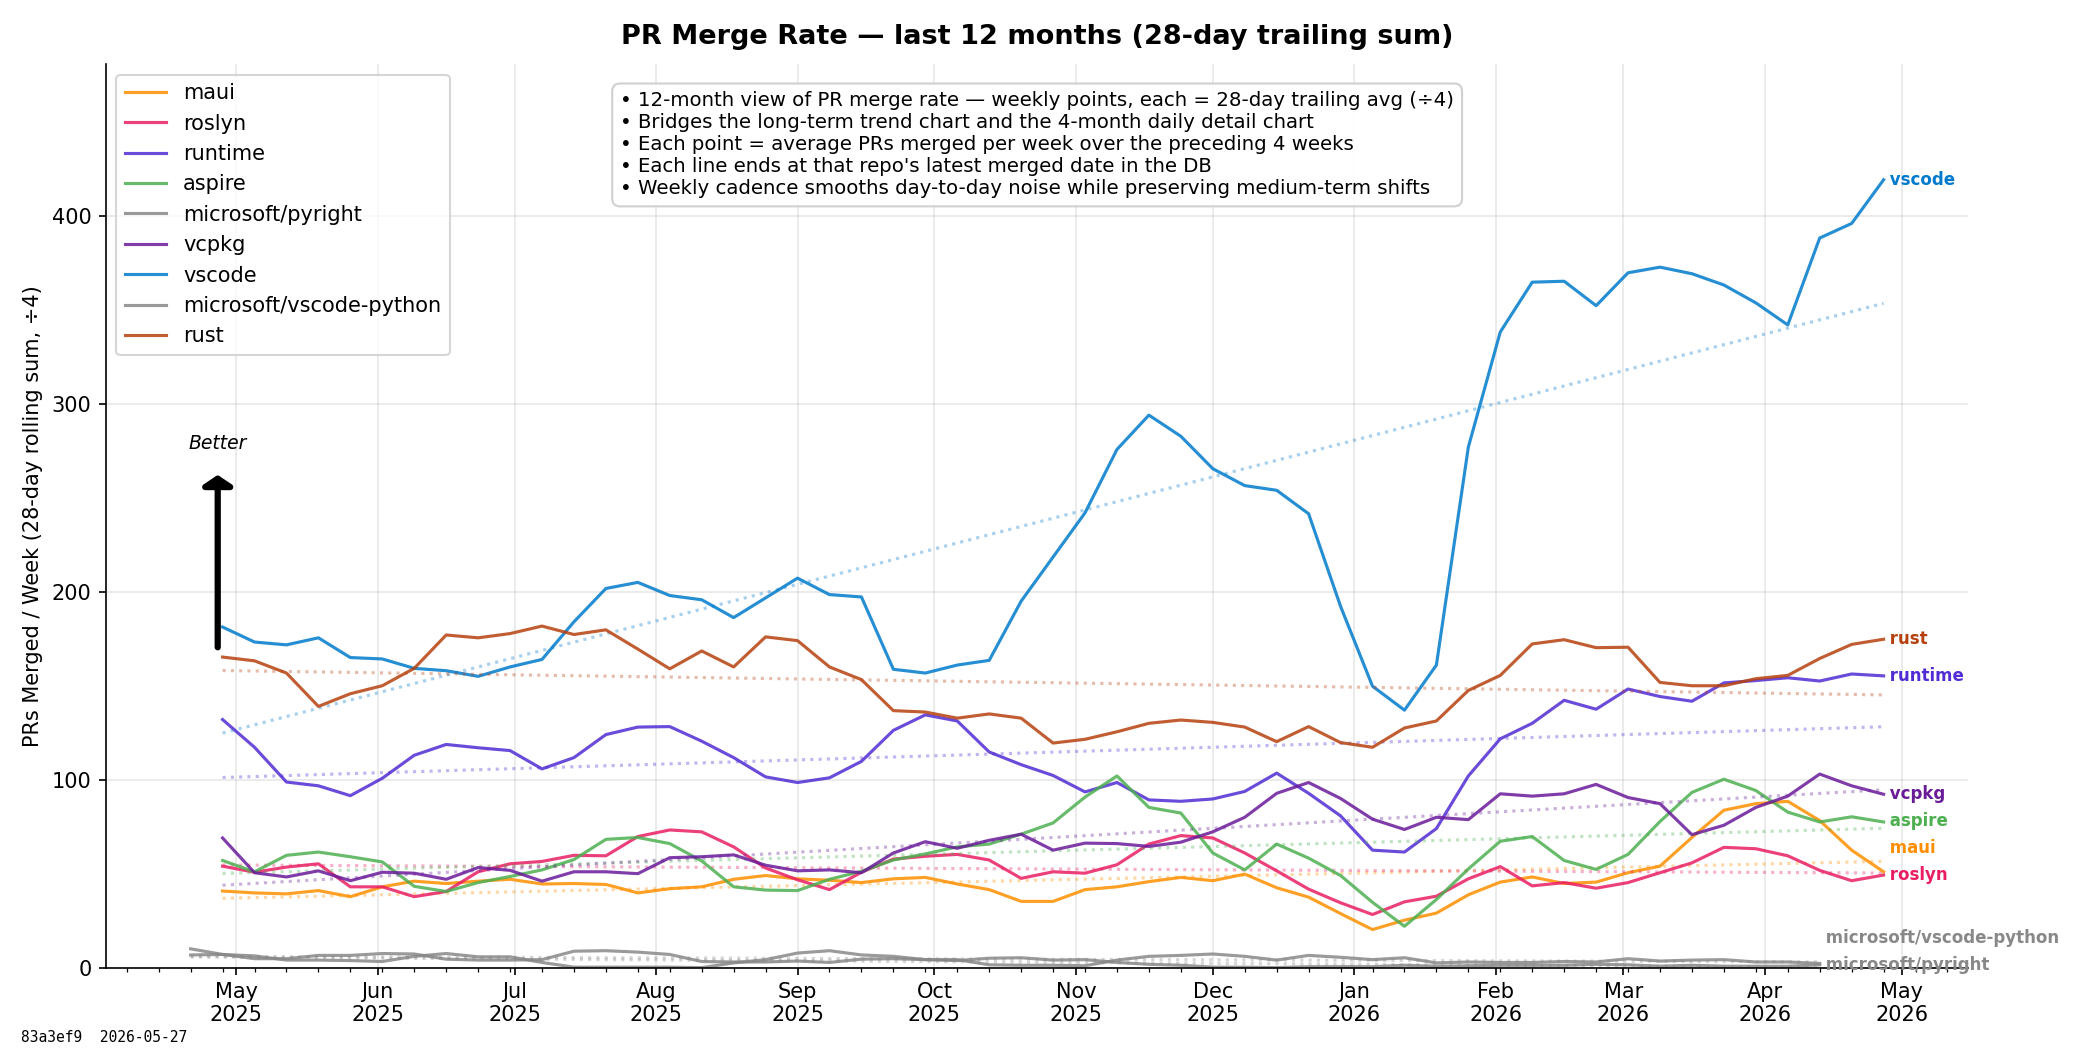
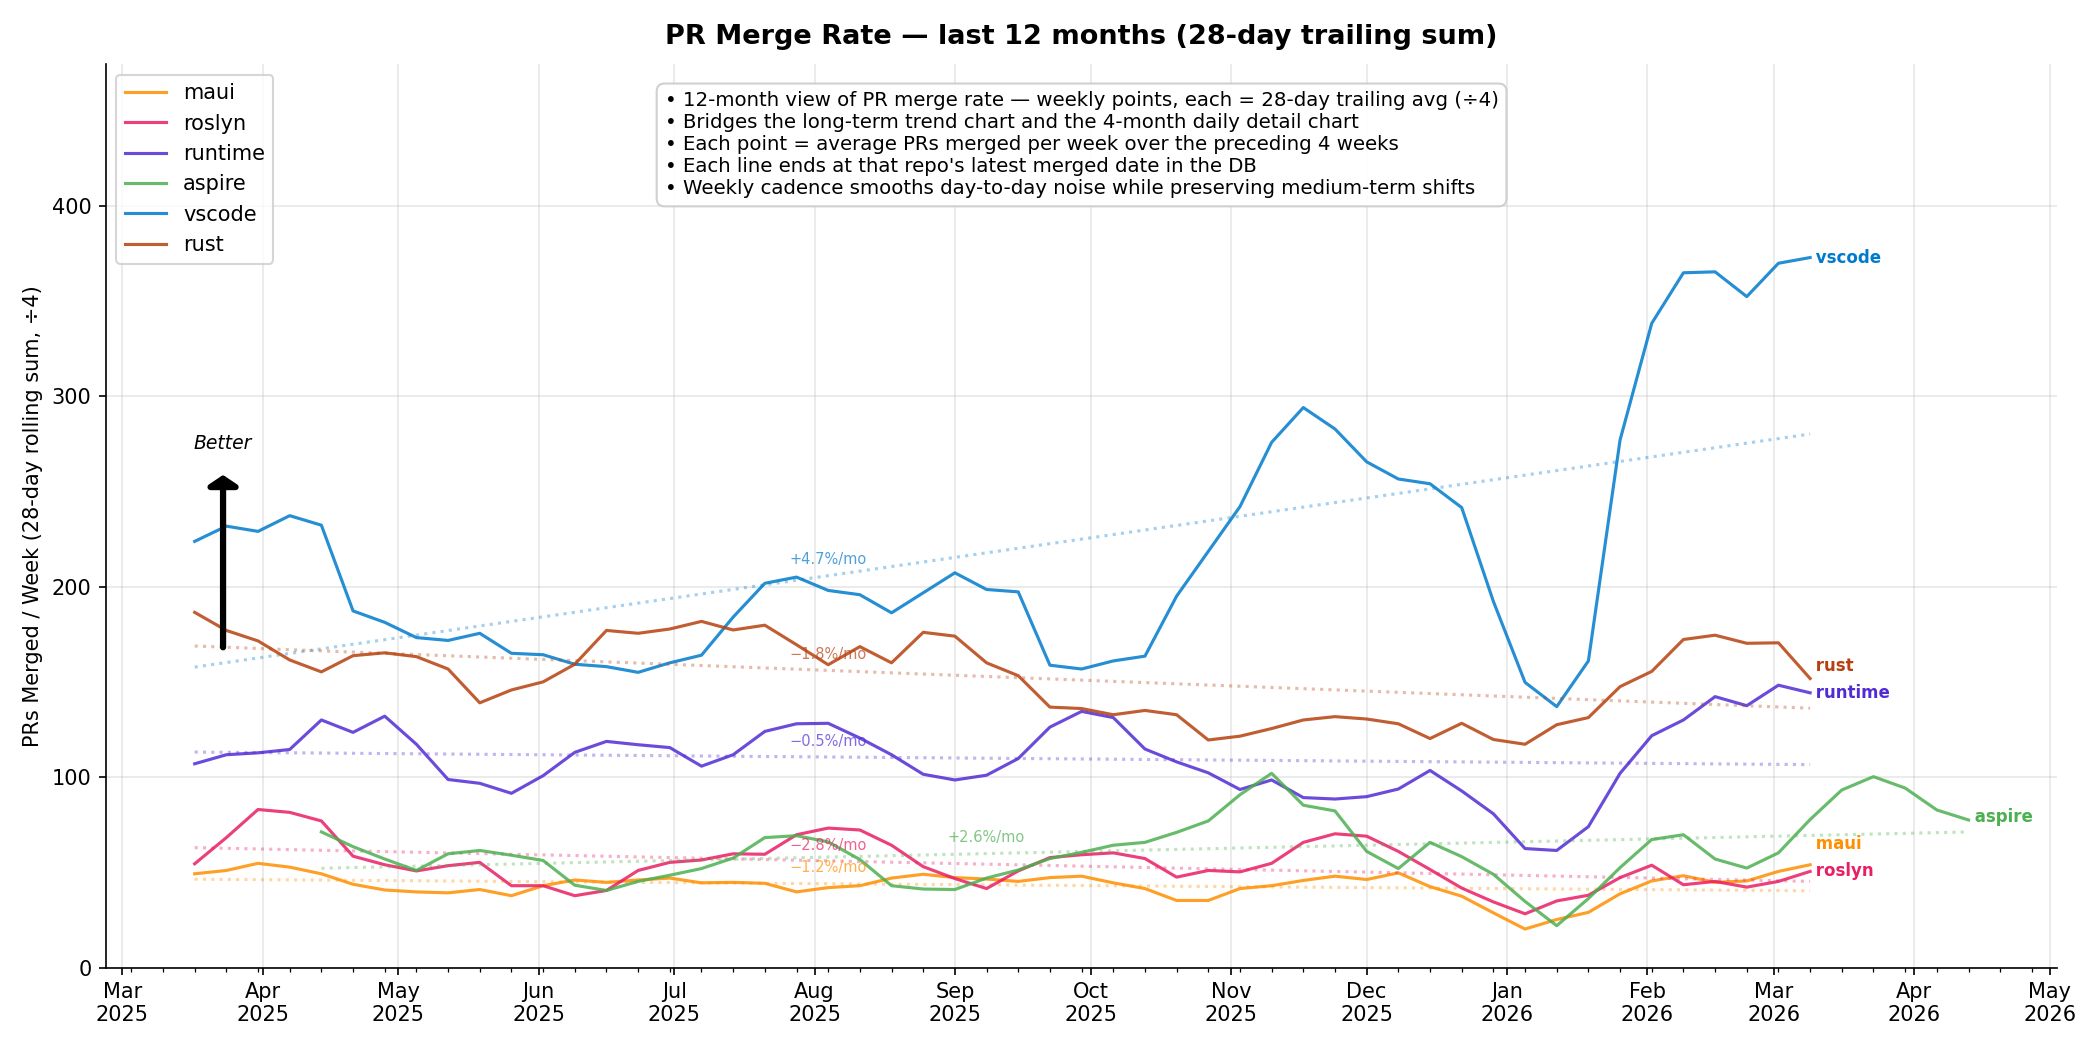
Add %/month trend annotations on regression lines

diff --git a/analyze.py b/analyze.py
@@ -992,6 +992,19 @@ def chart_pr_merge_rate_12m(all_items, output_dir):
             ax.plot(weeks, trend,
                     color=get_color(repo), linestyle=":",
                     linewidth=1.5, alpha=0.35)
+            # Compute % change per month from the regression line
+            mid_val = trend[len(trend) // 2]
+            if mid_val > 0:
+                pct_per_day = slope / mid_val * 100
+                pct_per_month = pct_per_day * 30.44
+                direction = "+" if pct_per_month >= 0 else "\u2212"
+                label = f"{direction}{abs(pct_per_month):.1f}%/mo"
+                # Place at 40% along the trend line to avoid line-end labels
+                idx = max(1, len(weeks) * 2 // 5)
+                ax.annotate(label, xy=(weeks[idx], trend[idx]),
+                            fontsize=7, color=get_color(repo), alpha=0.7,
+                            ha="center", va="bottom",
+                            xytext=(0, 4), textcoords="offset points")
         visible_data.append(rolling)
         line_ends.append((weeks, rolling, get_short(repo), get_color(repo)))
 
